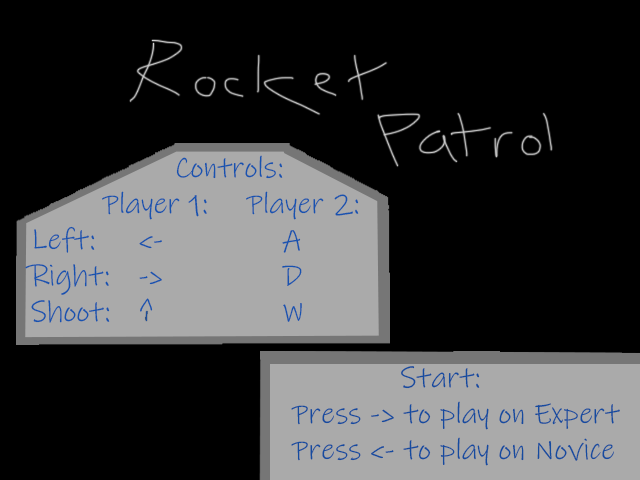
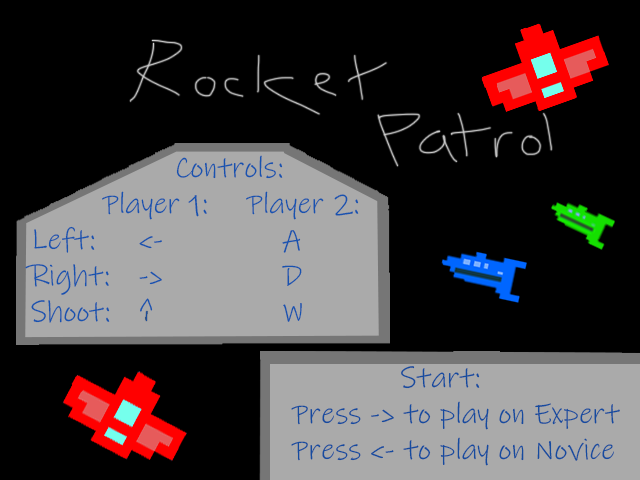
minor changes

diff --git a/src/scenes/Play.js b/src/scenes/Play.js
@@ -7,9 +7,9 @@ class Play extends Phaser.Scene {
         this.load.image('rocket', './assets/rocket.png');
         this.load.image('spaceship', './assets/spaceship.png');
         this.load.image('spaceship2', './assets/spaceship2.png');
-        this.load.image('starfield', './assets/starfield.png');
+        //this.load.image('starfield', './assets/starfield.png');
         this.load.image('starfield2', './assets/starfield2.png');
-        this.load.image('starfield3', './assets/starfield2.png');
+        this.load.image('starfield3', './assets/starfield.png');
         this.load.spritesheet('explosion', './assets/explosion.png', {frameWidth: 64, frameHeight: 32, startFrame: 0, endFrame: 9});
         this.load.spritesheet('explosion2', './assets/explosion2.png', {frameWidth: 64, frameHeight: 32, startFrame: 0, endFrame: 9});
         this.load.spritesheet('explosion3', './assets/explosion3.png', {frameWidth: 64, frameHeight: 32, startFrame: 0, endFrame: 9});
@@ -19,7 +19,7 @@ class Play extends Phaser.Scene {
     create() {
         // Background starfield
         //this.starfield = this.add.tileSprite(0, 0, game.config.width, game.config.height, 'starfield').setOrigin(0, 0);
-        this.starfield2 = this.add.tileSprite(0, 0, game.config.width, game.config.height, 'starfield2').setOrigin(0, 0);
+        this.starfield2 = this.add.tileSprite(0, 0, game.config.width, game.config.height, 'starfield3').setOrigin(0, 0);
         this.starfield3 = this.add.tileSprite(0, 0, game.config.width, game.config.height, 'starfield2').setOrigin(0, 0);
 
         // Green rectangle
@@ -135,19 +135,25 @@ class Play extends Phaser.Scene {
         }
         // Move background
         //this.starfield.tilePositionX -= 4;
-        this.starfield2.tilePositionX -= 1;
-        this.starfield3.tilePositionX -= 1;
+        this.starfield2.tilePositionX -= 2;
+        this.starfield3.tilePositionX -= 3;
         if (Phaser.Input.Keyboard.DownDuration(keyRIGHT, Infinity)) {
-            this.starfield2.tilePositionX += 9.5;
+            this.starfield2.tilePositionX += 7.6;
+            this.starfield3.tilePositionX += 7.5;
+
         }
         if (Phaser.Input.Keyboard.DownDuration(keyLEFT, Infinity)) {
             this.starfield2.tilePositionX -= 5.5;
+            this.starfield3.tilePositionX -= 5.6;
+
         }
         if (Phaser.Input.Keyboard.DownDuration(keyD, Infinity)) {
-            this.starfield3.tilePositionX += 9.5;
+            this.starfield2.tilePositionX += 7.6;
+            this.starfield3.tilePositionX += 7.5;
         }
         if (Phaser.Input.Keyboard.DownDuration(keyA, Infinity)) {
-            this.starfield3.tilePositionX -= 5.5;
+            this.starfield2.tilePositionX -= 5.5;
+            this.starfield3.tilePositionX -= 5.6;
         }
         // Update ships/Rocket
         if (!this.gameOver) {

diff --git a/src/main.js b/src/main.js
@@ -1,4 +1,6 @@
 // Rocket Patrol Modification
+// Stanley Chen stbchen
+// April 14 2022, around 12 hours to complete
 // >> Create a new title screen (e.g., new artwork, typography, layout) (10)
 // >> Implement parallax scrolling (10)
 // >> Create and implement a new weapon (w/ new behavior and graphics) (20)
